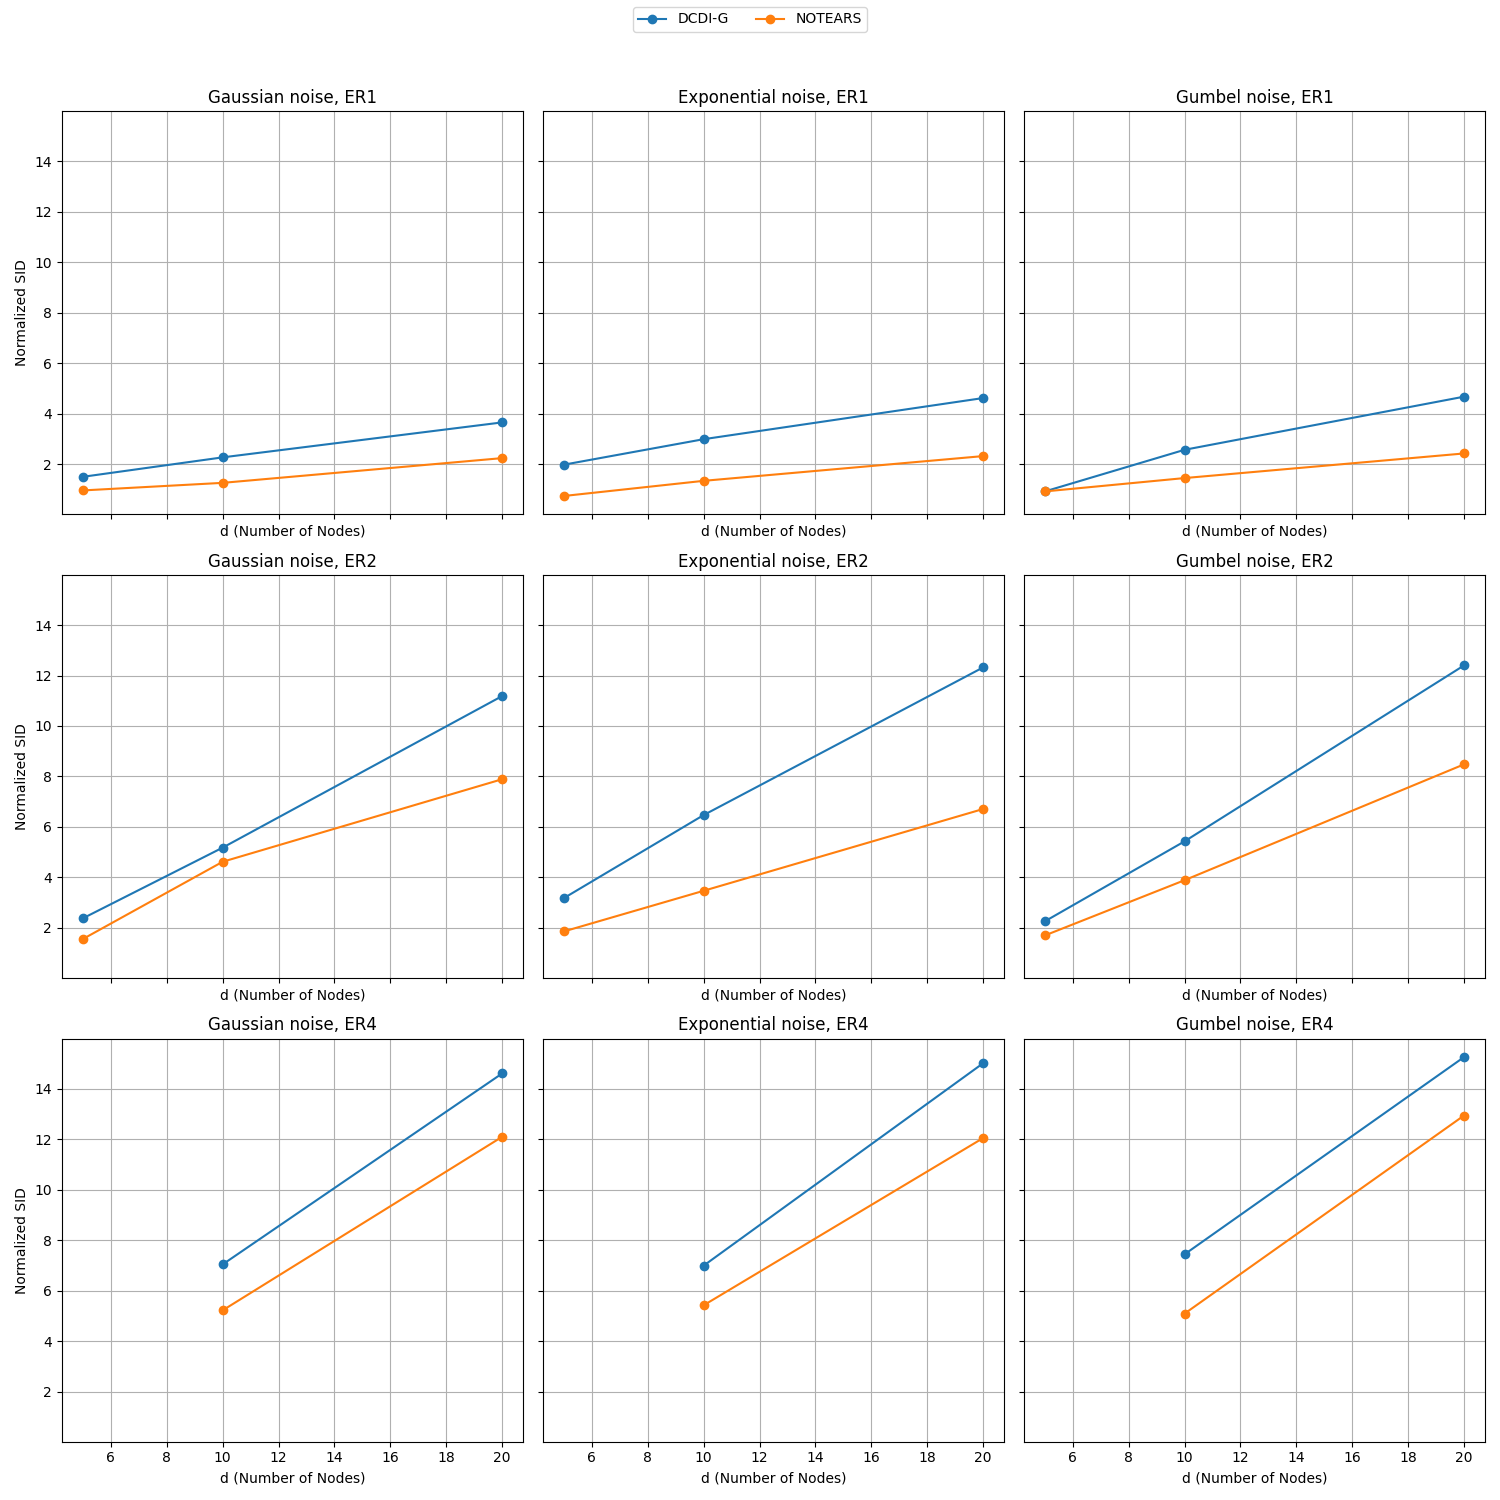
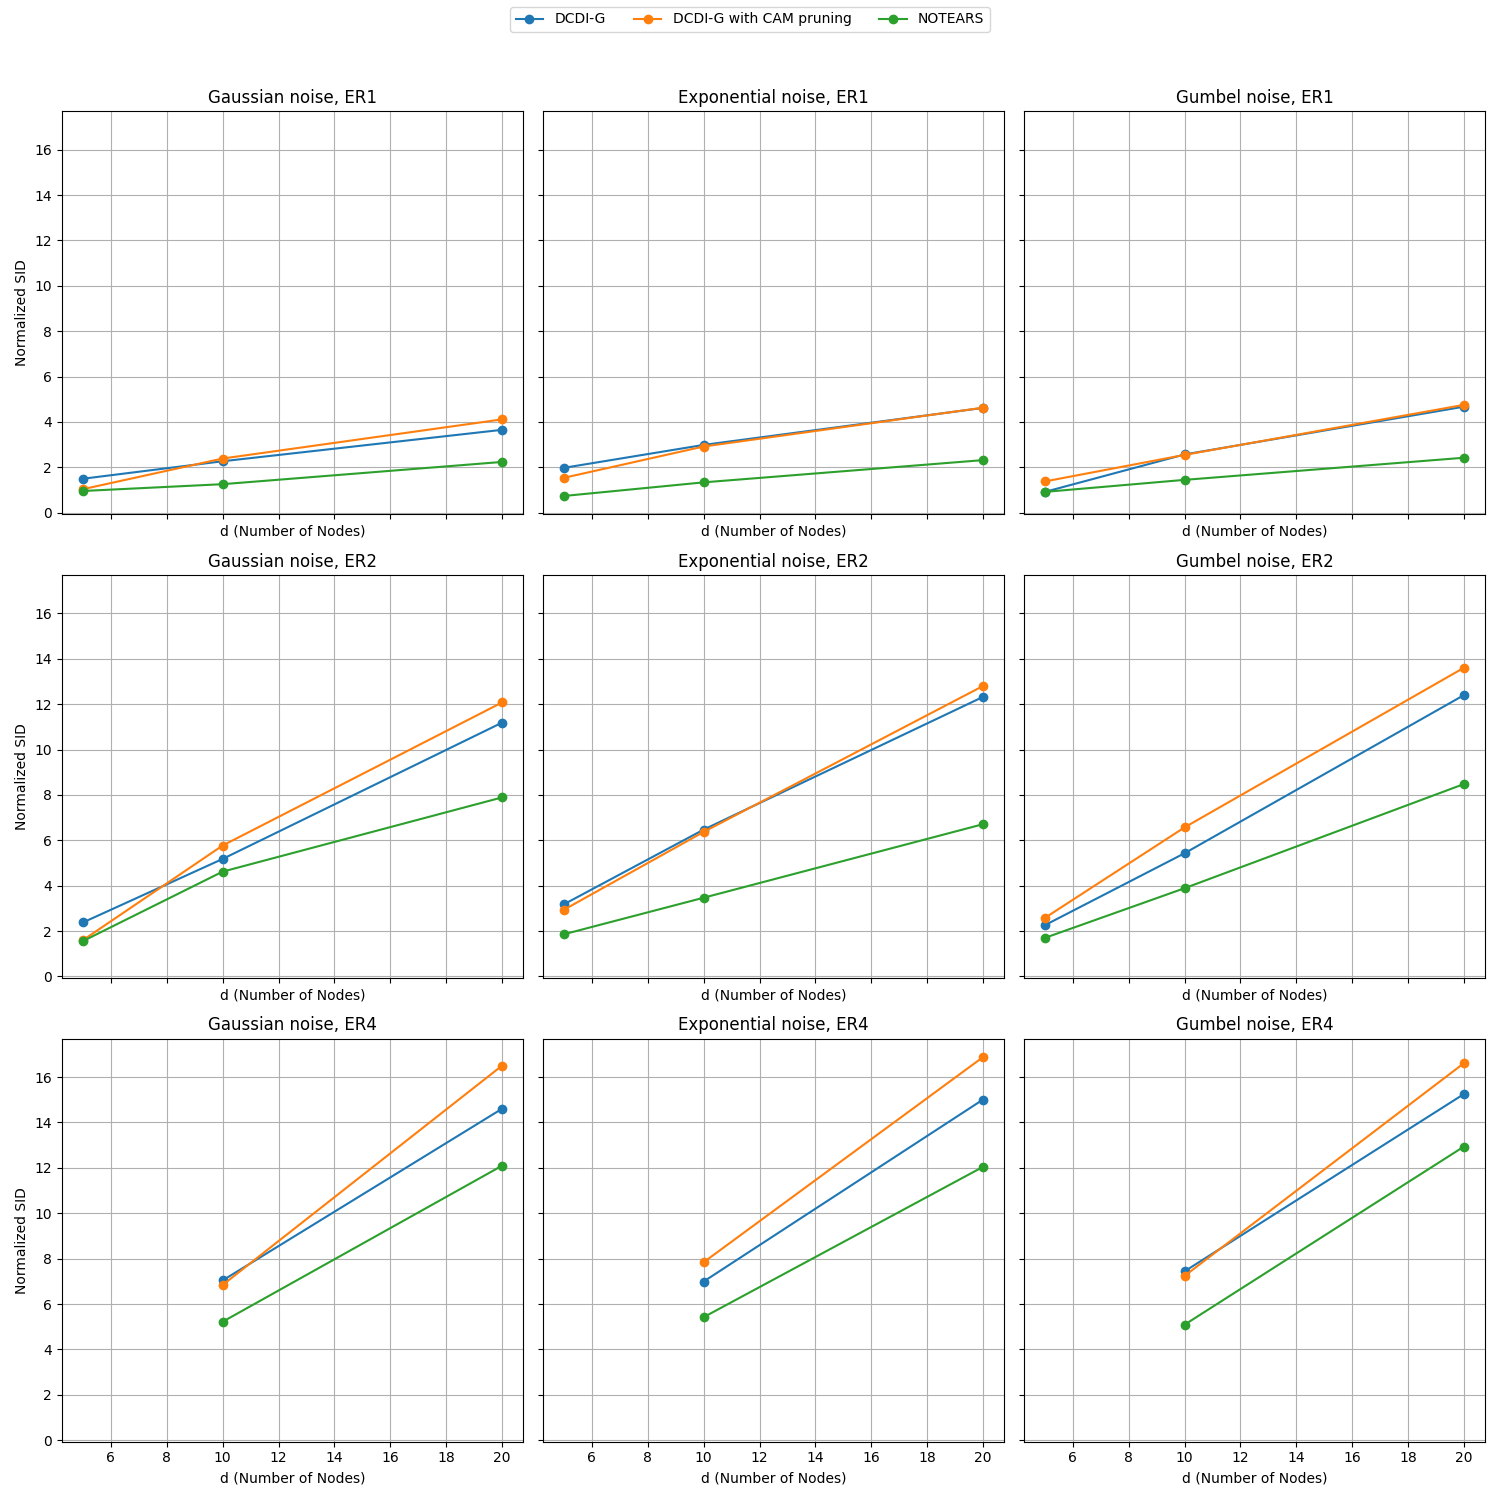
dcdi-g nonlinear sid

diff --git a/examples/dcdi/DCDI-G nonlinear/sid/reconstruct.py b/examples/dcdi/DCDI-G nonlinear/sid/reconstruct.py
@@ -7,7 +7,12 @@ import matplotlib.pyplot as plt
 num_nodes = [5, 10, 20]
 s0_ratios = [1, 2, 4]
 noise_types = ["gauss", "exp", "gumbel"]
-methods = ["DCDI-G", "NOTEARS"]
+methods = ["DCDI-G", "DCDI-G-CAM", "NOTEARS"]
+method_names = {
+    "DCDI-G": "DCDI-G",
+    "DCDI-G-CAM": "DCDI-G with CAM pruning",
+    "NOTEARS": "NOTEARS"
+}
 
 noise_names = {
     "gauss": "Gaussian",
@@ -50,7 +55,7 @@ for i, s0_ratio in enumerate(s0_ratios):
 
         for method in methods:
             means = [np.mean(results[method][noise][str(s0_ratio)][d]) for d in num_nodes]
-            ax.plot(num_nodes, means, marker="o", label=method)
+            ax.plot(num_nodes, means, marker="o", label=method_names[method])
 
         ax.set_title(f"{noise_names[noise]} noise, ER{s0_ratio}")
         ax.set_xlabel("d (Number of Nodes)")
